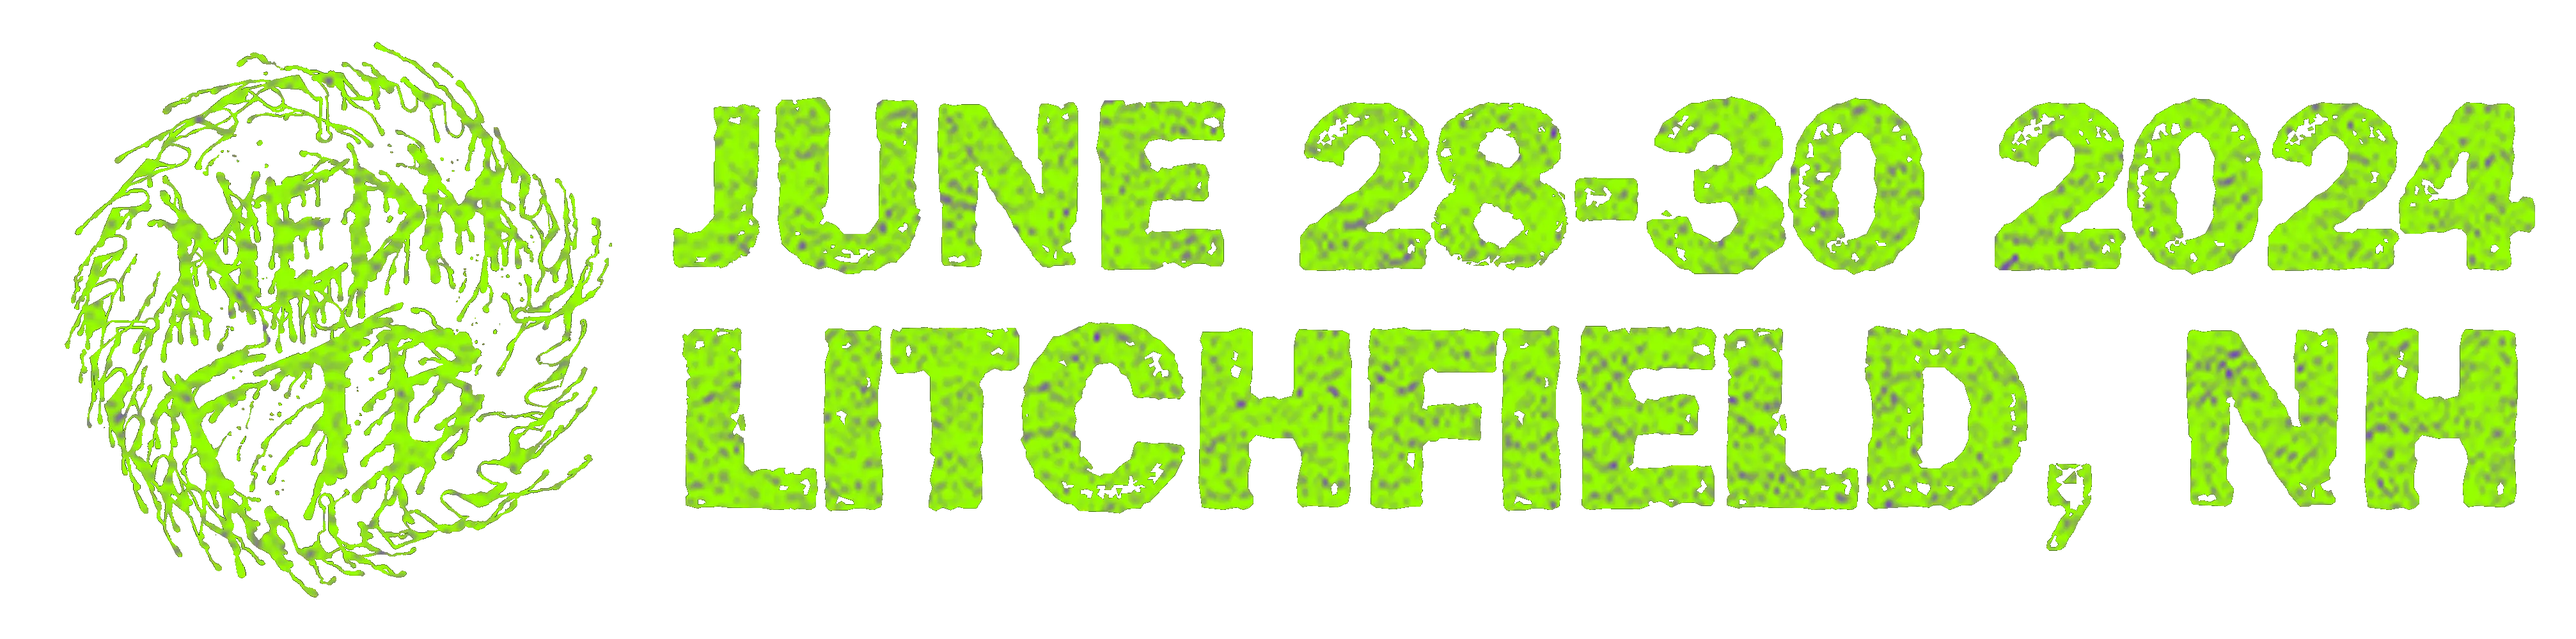
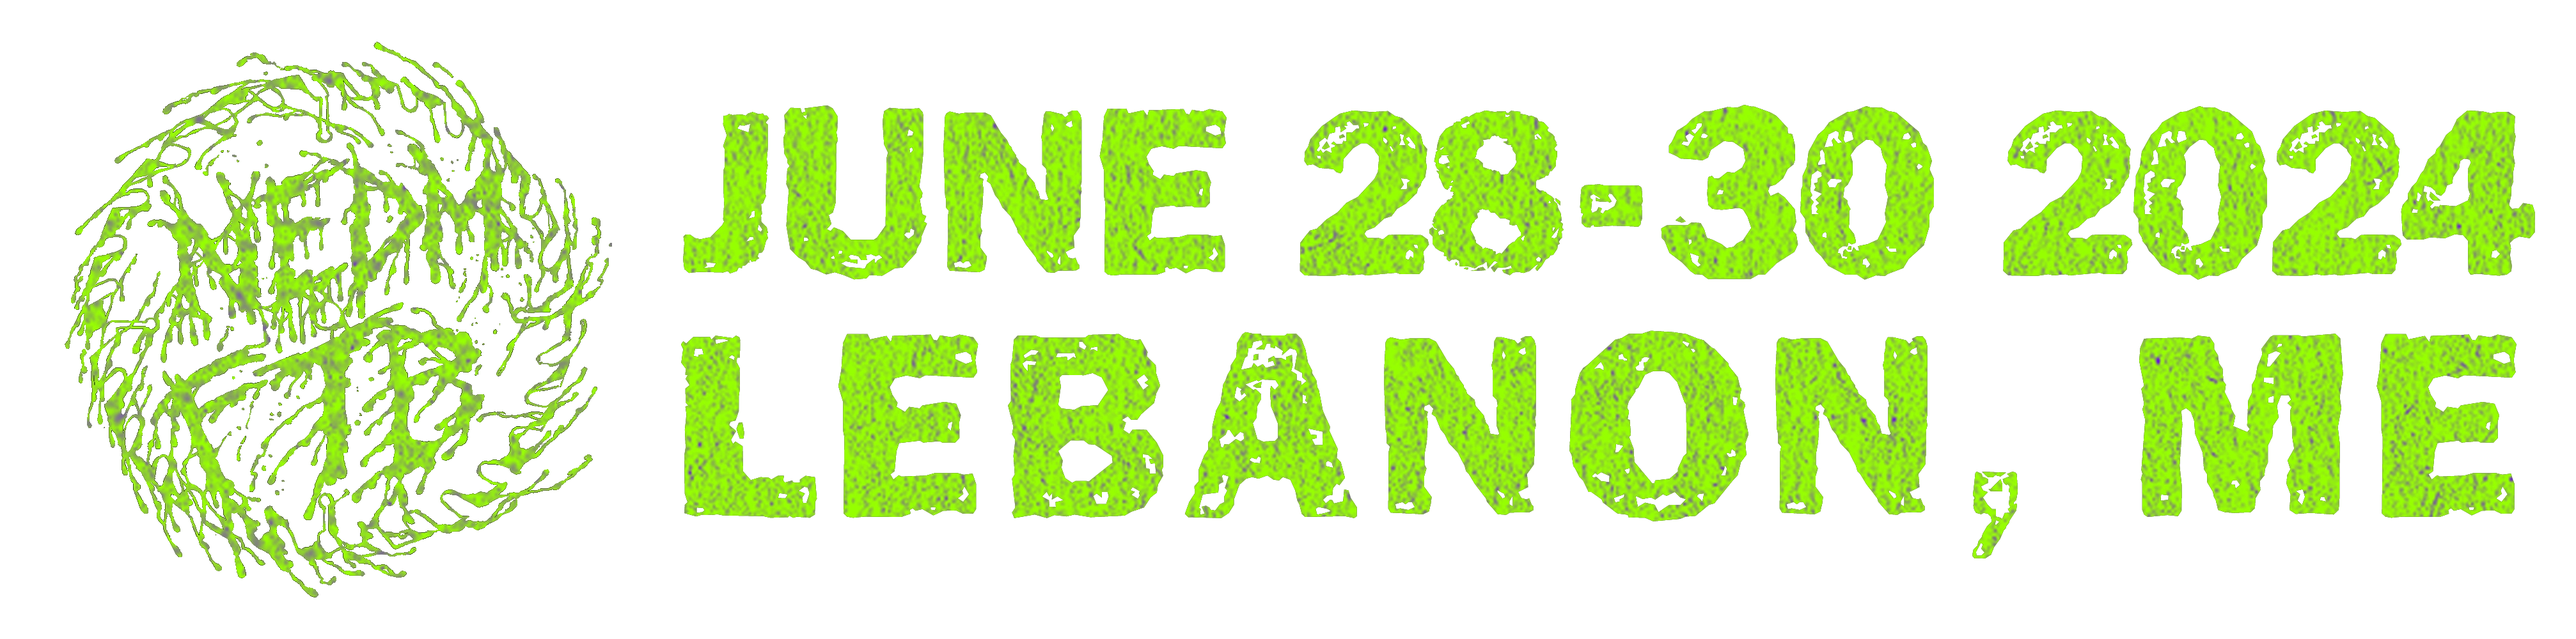
Updated location, temp removed info page, updated bands

diff --git a/src/components/Info/Accordion.jsx b/src/components/Info/Accordion.jsx
@@ -22,7 +22,7 @@ const AccordionInfo = () => {
         >
           What you should bring!
         </AccordionHeader>
-        <AccordionBody className="text-white">
+        <AccordionBody className="text-white text-lg">
           The Bonanza isn’t in the middle of nowhere like some other fests are,
           so we do have shops reasonably nearby. However, it’s important to come
           prepared. Here is a list of things we HIGHLY encourage everyone to
@@ -60,7 +60,7 @@ const AccordionInfo = () => {
         >
           Features
         </AccordionHeader>
-        <AccordionBody className="text-white">
+        <AccordionBody className="text-white text-lg">
           <h2 className="text-2xl underline">Vendors</h2>
           <p>
             The Bonanza is a hotbed for all kinds of vendors across the New
@@ -114,7 +114,7 @@ const AccordionInfo = () => {
         >
           Venue Info
         </AccordionHeader>
-        <AccordionBody className="text-white">
+        <AccordionBody className="text-white text-lg">
           Just like in 2023, the 2024 Bonanza will be held at The Five/Nine in
           Litchfield, New Hampshire. You aren’t going to find much on it aside
           from on facebook or instagram, however here is all the info you need.
@@ -147,7 +147,7 @@ const AccordionInfo = () => {
         >
           Rules and Guidelines
         </AccordionHeader>
-        <AccordionBody className="text-white">
+        <AccordionBody className="text-white text-lg">
           While the Bonanza remains a haven for all sorts of death and
           debauchery, we must put certain rules in place to ensure everyone has
           a safe and fun time at the fest. Please read this section carefully so
@@ -190,6 +190,20 @@ const AccordionInfo = () => {
             <li>Pets</li>
             <li>Burzum T-Shirts</li>
           </ol>
+          <br />
+          <br />
+          <h2 className="text-2xl underline">Pool Rules</h2>
+          <ol className="list-decimal list-inside">
+            <li>Pool capacity: 15 bodies (dead or alive)</li>
+            <li>
+              Anyone using the pool MUST hose off before entering. There will be
+              a staff member there to help with this
+            </li>
+            <li>No eating in the pool</li>
+            <li>
+              There are ashtrays around the pool, DO NOT litter your cigarettes
+            </li>
+          </ol>
         </AccordionBody>
       </Accordion>
 
@@ -203,7 +217,7 @@ const AccordionInfo = () => {
         >
           Safety Guidelines
         </AccordionHeader>
-        <AccordionBody className="text-white">
+        <AccordionBody className="text-white text-lg">
           <ul className="list-disc list-inside mb-4">
             <li>Stay hydrated and PACE YOURSELF.</li>
             <li>
@@ -246,7 +260,7 @@ const AccordionInfo = () => {
         >
           Parking
         </AccordionHeader>
-        <AccordionBody className="text-white">
+        <AccordionBody className="text-white text-lg">
           When you arrive at the Bonanza, you will be greeted by one of our
           parking operators who will direct you depending on what type of
           campsite you’ve selected. If you aren’t camping you will be directed
@@ -275,7 +289,7 @@ const AccordionInfo = () => {
         >
           Camping
         </AccordionHeader>
-        <AccordionBody className="text-white">
+        <AccordionBody className="text-white text-lg">
           <p className="mb-4">
             Camping is highly encouraged to everyone attending the bonanza.
             Camping passes are purchased alongside your tickets. There are 3
@@ -285,13 +299,13 @@ const AccordionInfo = () => {
           <h2 className="text-2xl underline">Tent Camping</h2>
           <ul className="list-disc list-inside mb-4">
             <li>
-              Tent campsites are in the woods area located right behind the fest
-              grounds. There are no blocked off areas for campsites, so please
-              set up your tent respective of other campers.
+              Tent camping is available all over the fest grounds and in the
+              woods behind the property
             </li>
             <li>
-              We also have VIP campsites available for bands, if these don’t
-              fill up we will open them to campers at no extra cost.
+              PLEASE set up your tent respectful of the vendors, bands, and
+              other campers. Do not set up right in front of the stage.
+              Don&apos;t set up right in front of the vendors, etc etc etc
             </li>
             <li>
               Porta potties and handwashing station are located in front of the
@@ -299,15 +313,10 @@ const AccordionInfo = () => {
               that later.
             </li>
             <li>
-              CAMPFIRES ARE ALLOWED! Please be safe and respectful. We also
-              allow propane stoves or whatever else you might need. Please don’t
-              set the woods on fire!
+              There will be 2 designated spots for campfires. Small gas stoves
+              are also permitted. Bring as much food and water as you please
             </li>
-            <li>
-              The entire fest is BYOB so go nuts. Fill your cooler to the brim
-              with whatever you want. There is also a Hannaford not too far from
-              the grounds.
-            </li>
+            <li>The fest is BYOB, so bring a cooler</li>
           </ul>
 
           <h2 className="text-2xl underline">Vehicle Camping</h2>
@@ -341,7 +350,7 @@ const AccordionInfo = () => {
         >
           General FAQ
         </AccordionHeader>
-        <AccordionBody className="text-white">
+        <AccordionBody className="text-white text-lg">
           <ul className="list-disc list-inside">
             <li>
               “I only want to buy a day pass, but I can’t tell which day my
@@ -380,6 +389,18 @@ const AccordionInfo = () => {
               If you need ANY accommodations, do not hesitate to contact our
               instagram page. We will provide WHATEVER we possibly can to ensure
               everyone has an amazing weekend!
+            </li>
+
+            <li>
+              “I no longer want to/am able to attend and would like a refund for
+              my ticket”
+            </li>
+
+            <li className="indent-8">
+              Just like any other festival or event of this nature, the only way
+              to get your money back for a purchased ticket is by selling it.
+              Neither the festival organizers nor our ticketing service can
+              provide refunds directly.
             </li>
 
             <li>

diff --git a/src/components/Nav/Nav.jsx b/src/components/Nav/Nav.jsx
@@ -52,6 +52,16 @@ const Nav = () => {
             </li>
 
             <li>
+              <a
+                href="http://www.bonginator.bigcartel.com"
+                className="py-2 pl-3 pr-4 text-white md:p-0 hover:text-[#96ff00]"
+                target="blank"
+              >
+                Merch
+              </a>
+            </li>
+
+            <li>
               <NavLink
                 to={`/bands`}
                 className="py-2 pl-3 pr-4 text-white md:p-0 hover:text-[#96ff00]"
@@ -59,14 +69,14 @@ const Nav = () => {
                 Bands
               </NavLink>
             </li>
-            <li>
+            {/* <li>
               <NavLink
                 to={`/festinfo`}
                 className="py-2 pl-3 pr-4 text-white md:p-0 hover:text-[#96ff00]"
               >
                 Fest Info
               </NavLink>
-            </li>
+            </li> */}
             <NavDropdown />
           </ul>
         </div>

diff --git a/src/utils/BandsArray.js b/src/utils/BandsArray.js
@@ -60,20 +60,12 @@ const BandsArray = [
     alt: "Tar",
   },
   {
-    src: "WORMALTAR.webp",
-    alt: "Worm Altar",
-  },
-  {
     src: "RSI.webp",
     alt: "Retained Surgical Instrument",
   },
   {
     src: "ETHEREALROT.webp",
     alt: "Ethereal Rot",
-  },
-  {
-    src: "ROTTINGBODY.webp",
-    alt: "Rotting Body",
   },
   {
     src: "ABORTEDBONGRIP.webp",
@@ -150,6 +142,14 @@ const BandsArray = [
   {
     src: "SCATTERED.webp",
     alt: "Scattered Remnants",
+  },
+  {
+    src: "IMMORTALSUFFERING.webp",
+    alt: "Immortal Suffering",
+  },
+  {
+    src: "JOEBUCK.webp",
+    alt: "Joe Buck Yourself",
   },
 ];
 
